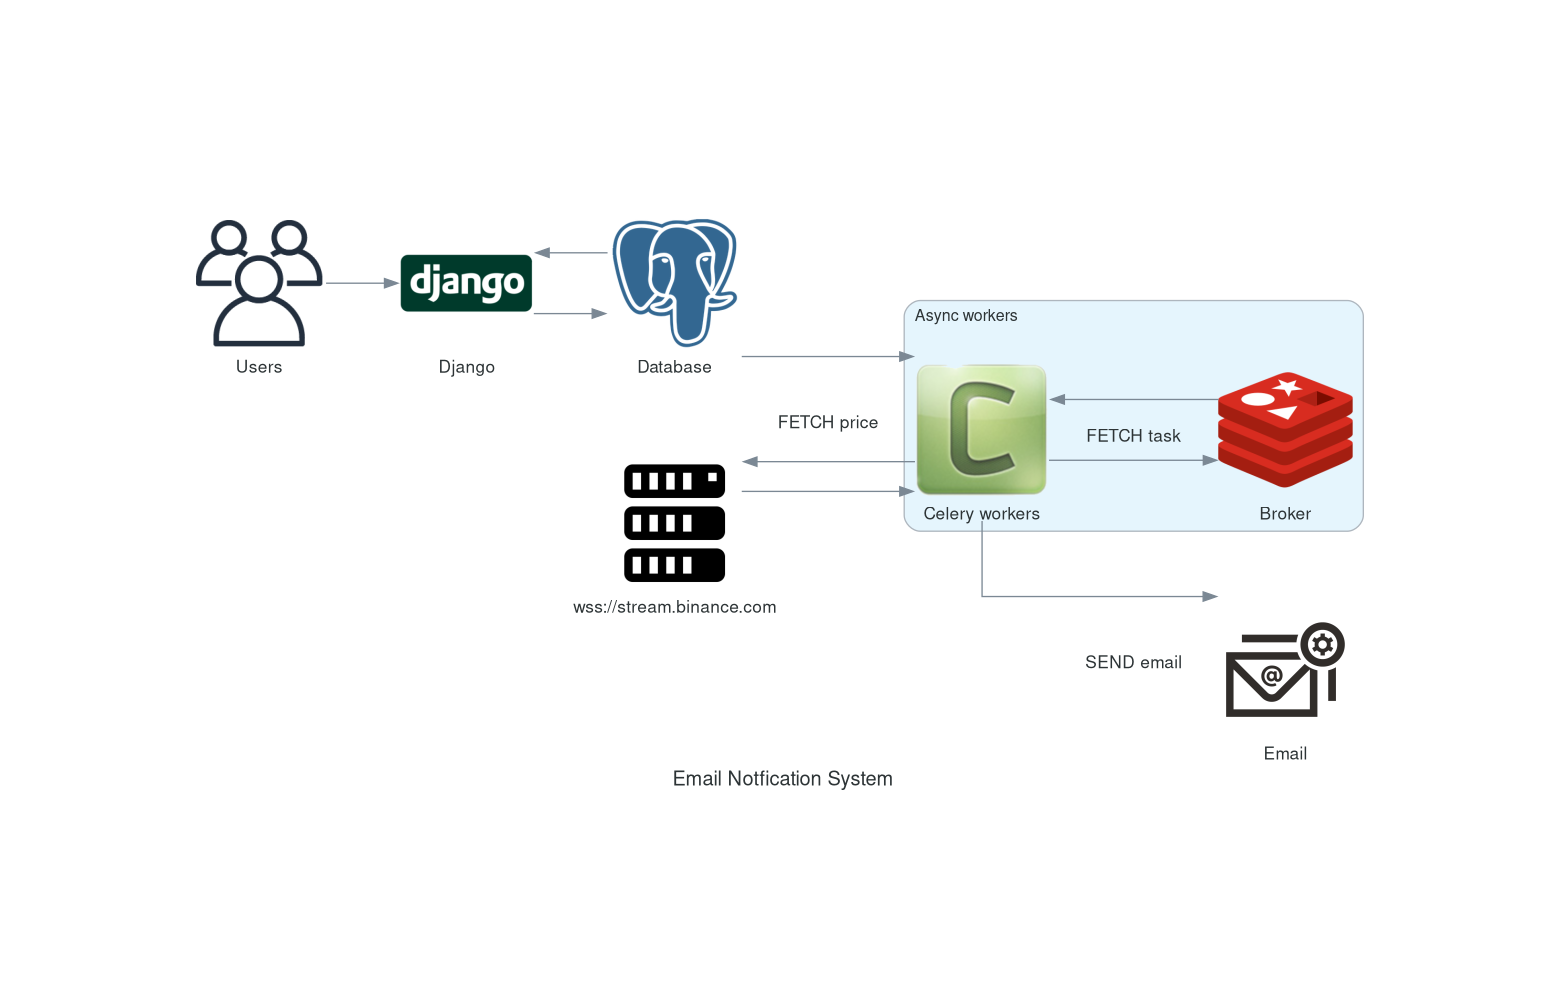
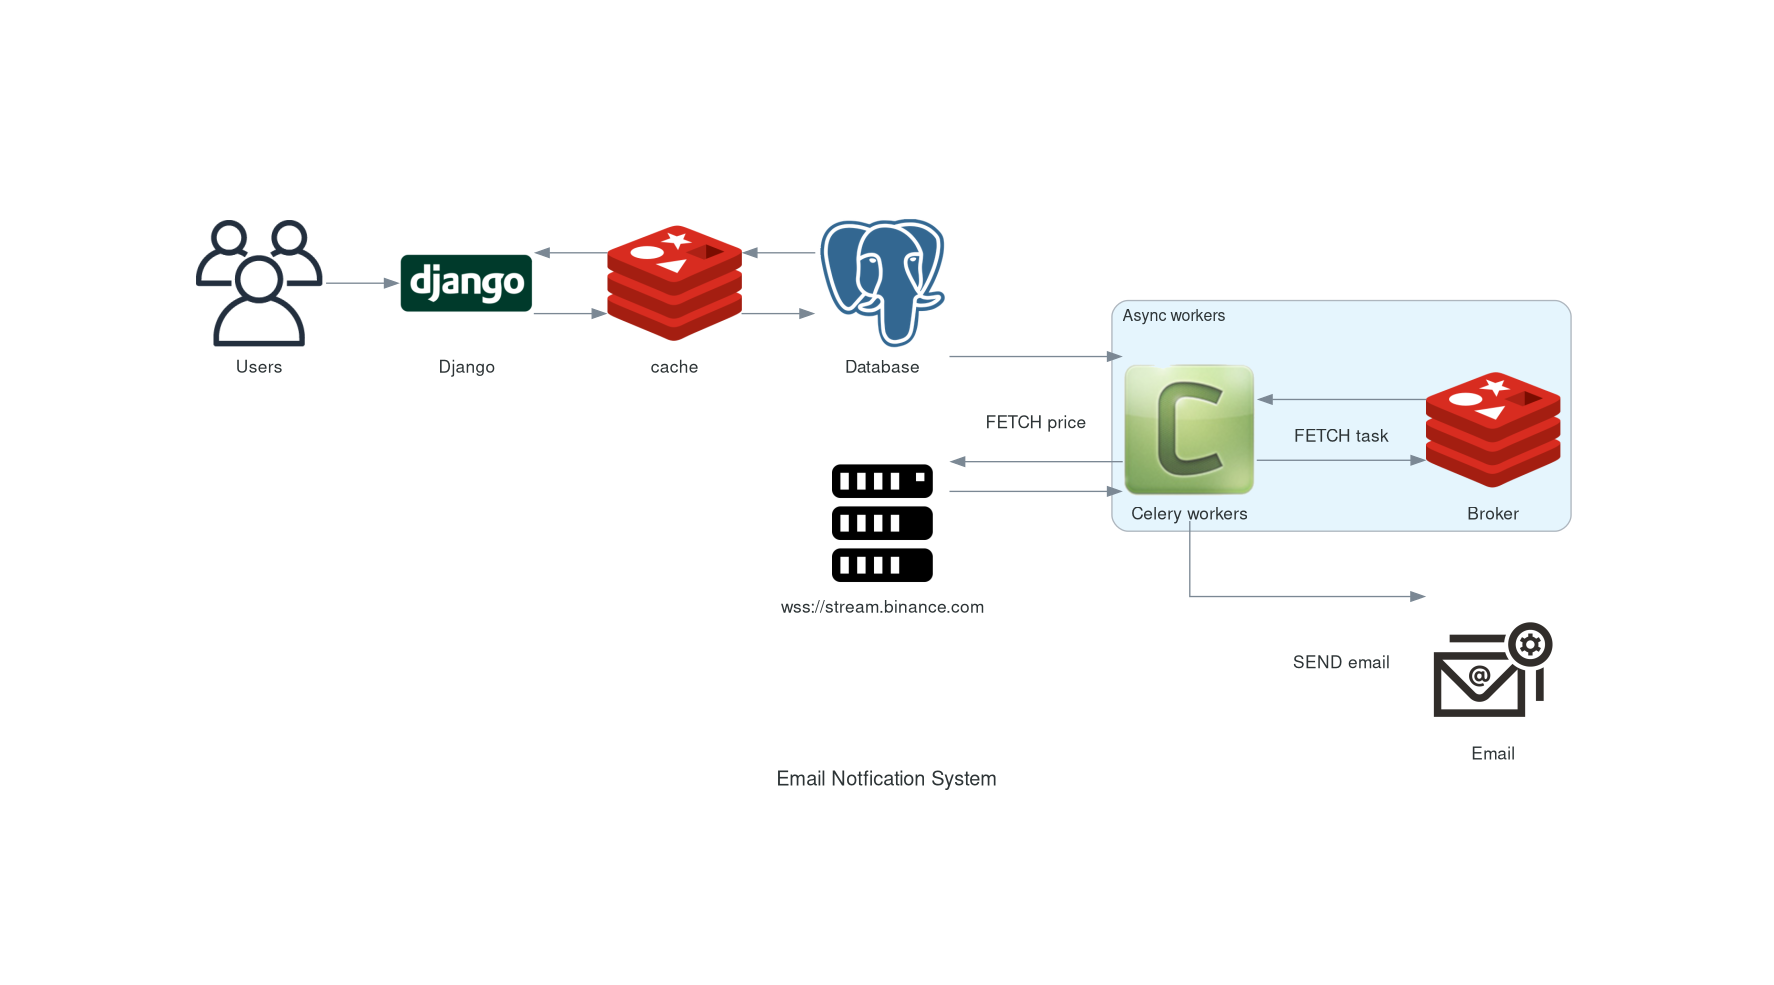
updated doc

diff --git a/assets/architecture.py b/assets/architecture.py
@@ -13,6 +13,7 @@ with Diagram("Email Notfication System", show=True):
     db = PostgreSQL("Database")
     server = Server("wss://stream.binance.com")
     mail = Email("Email")
+    cache = Redis("cache")
     
     with Cluster("Async workers"): 
         celery = Celery("Celery workers")
@@ -20,8 +21,11 @@ with Diagram("Email Notfication System", show=True):
         celery >> Edge(label="FETCH task") >> redis
         celery << redis
 
-    django >> db 
-    django << db
+    django >> cache
+    django << cache
+
+    cache >> db 
+    cache << db
 
     db >> celery
 

diff --git a/References.md b/References.md
@@ -6,6 +6,7 @@
 - https://stackoverflow.com/questions/35832095/difference-between-links-and-depends-on-in-docker-compose-yml
 - https://stackoverflow.com/questions/47309643/node-cant-connect-to-redis-via-docker-compose
 - https://docs.docker.com/compose/networking/
+- https://www.enterprisedb.com/postgres-tutorials/how-use-postgresql-django
 - https://stackoverflow.com/questions/33992867/how-do-you-perform-django-database-migrations-when-using-docker-compose
 - https://stackoverflow.com/questions/60895800/executing-two-celery-workers-from-one-line
 - https://stackoverflow.com/questions/2668567/django-models-get-specific-columns

diff --git a/README.md b/README.md
@@ -47,16 +47,6 @@ The project uses the fowlling technologies:
     ```bash
     docker-compose up 
     ```
-4. Credentials for using the app
-    ```python
-        ## admin
-        name: admin 
-        password: admin
-    
-        ## user
-        name: user
-        password: user@2001
-    ```
 
 ## Setting up dev environment 
 **(THIS IS JUST MY PREFERENCE)**

diff --git a/Todo.md b/Todo.md
@@ -1,7 +1,7 @@
 -[x] Connect to postgres.
--[ ] Api to add users.
--[ ] Add redis to db querys.
+-[x] Api to add users.
 -[ ] Paginate the response. 
+-[x] Add redis to db querys.
 -[ ] Make modular config
 -[x] Create a swagger UI.
 -[x] Push the send email task to redis.
